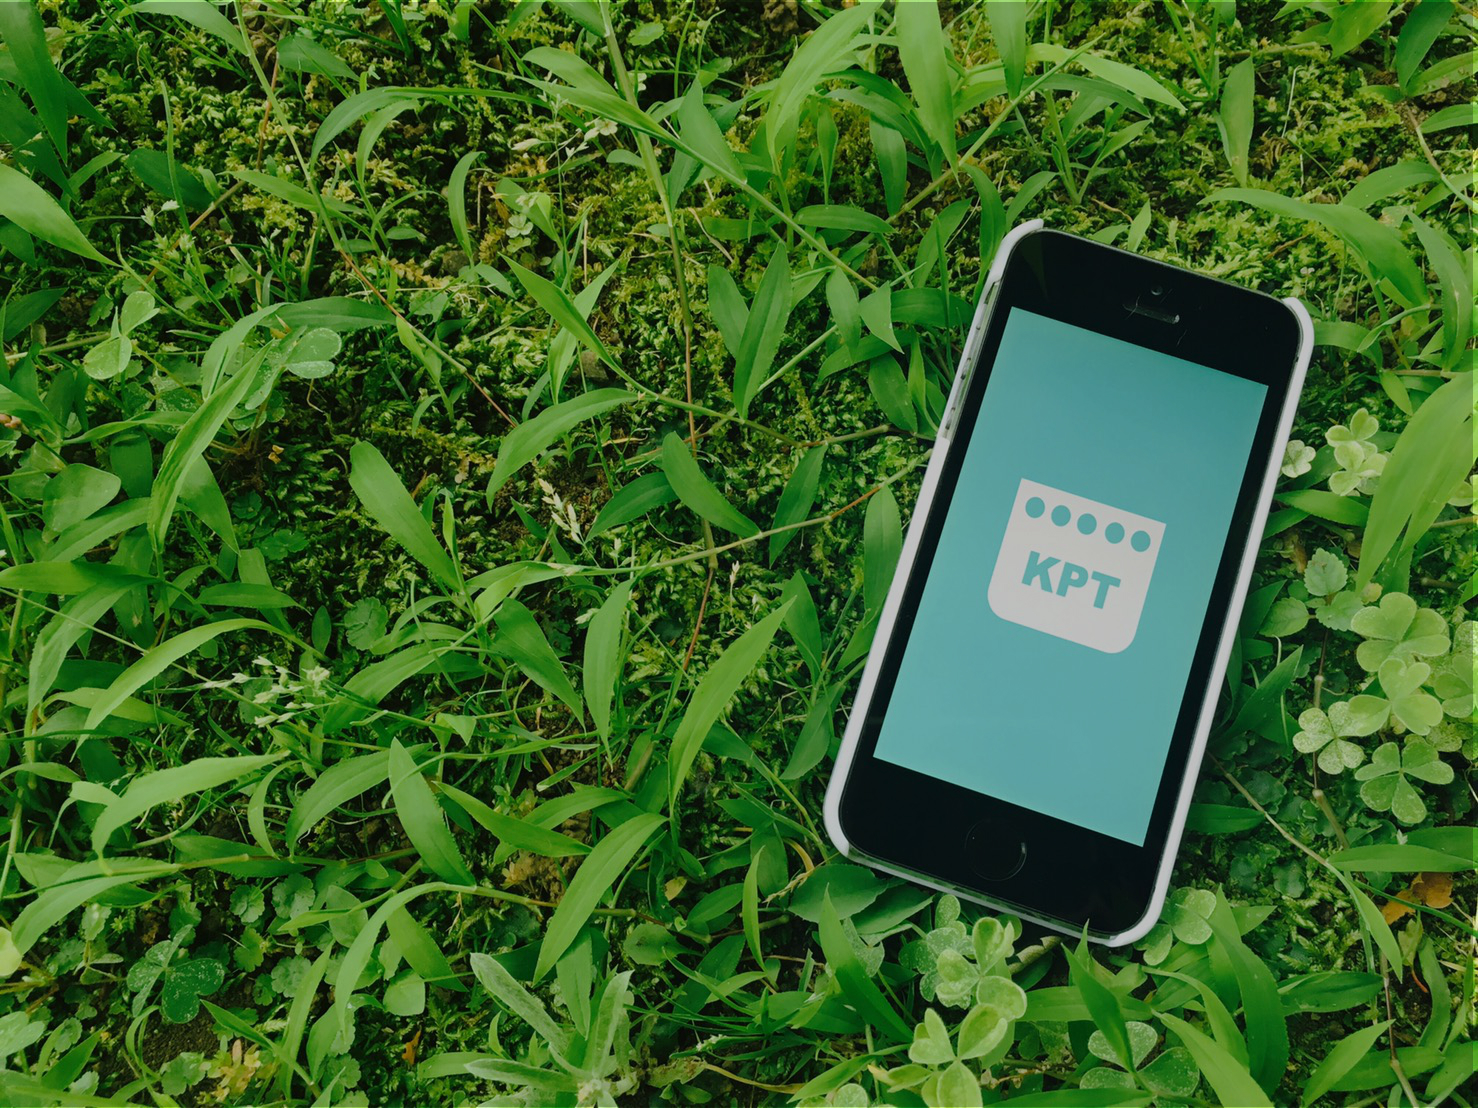
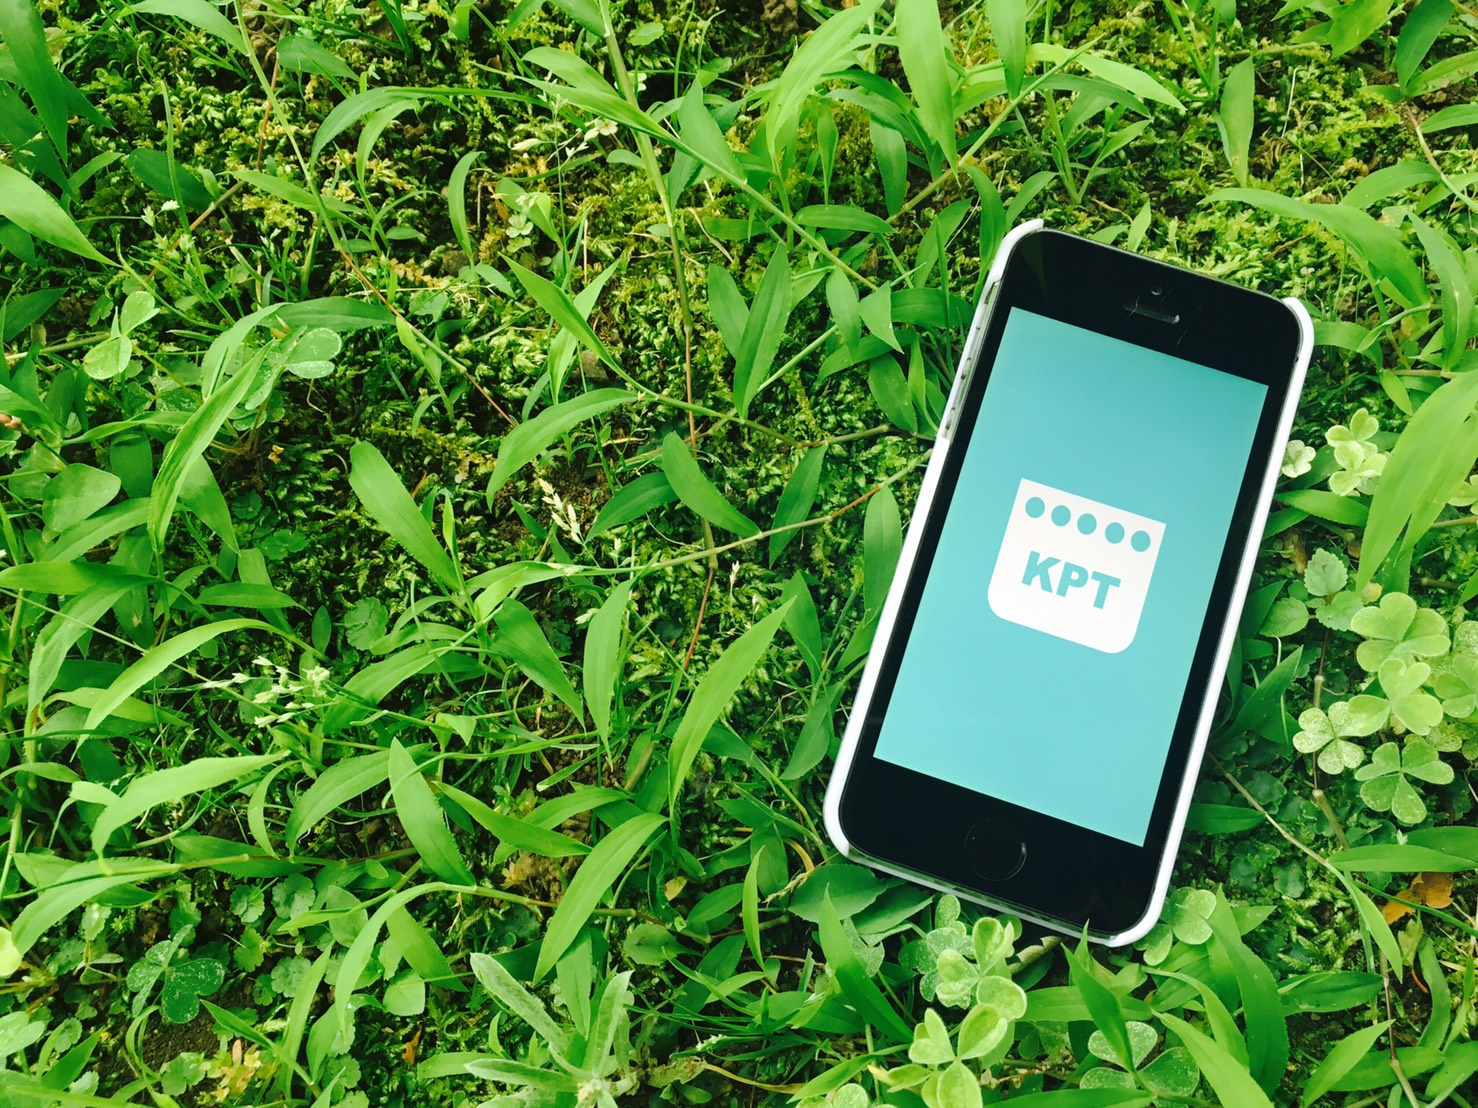
header.jpgを戻した＆TOPあたりの構成を少々変更

diff --git a/lp/index.html b/lp/index.html
@@ -105,8 +105,8 @@
             <div class="header-content-inner">
               <div>
                 <h1 id="homeHeading">- KPTer - <br/> KPTでの振り返り、はじめませんか？</h1>
-                <hr>
-                <p>プロジェクトメンバー、友達同士、カップル、夫婦などで普段いえないことをカイゼンの名の下に行うことのできるシンプルなのに強力な新しいコミュニケーションツールです</p>
+                <hr style="margin-bottom:130px">
+                <!--<p>プロジェクトメンバー、友達同士、カップル、夫婦などで普段いえないことをカイゼンの名の下に行うことのできるシンプルなのに強力な新しいコミュニケーションツールです</p>-->
               </div>
               <a href="#about" class="btn btn-primary btn-xl page-scroll">ABOUT KPTer</a>
             </div>
@@ -120,6 +120,7 @@
               <div class="col-lg-12 text-center">
                   <h2 class="section-heading">ABOUT KPTer</h2>
                   <hr class="light">
+                  <p>プロジェクトメンバー、友達同士、カップル、夫婦などで普段いえないことを<br>カイゼンの名の下に行うことのできるシンプルなのに強力な新しいコミュニケーションツールです。</p>
               </div>
           </div>
       </div>
